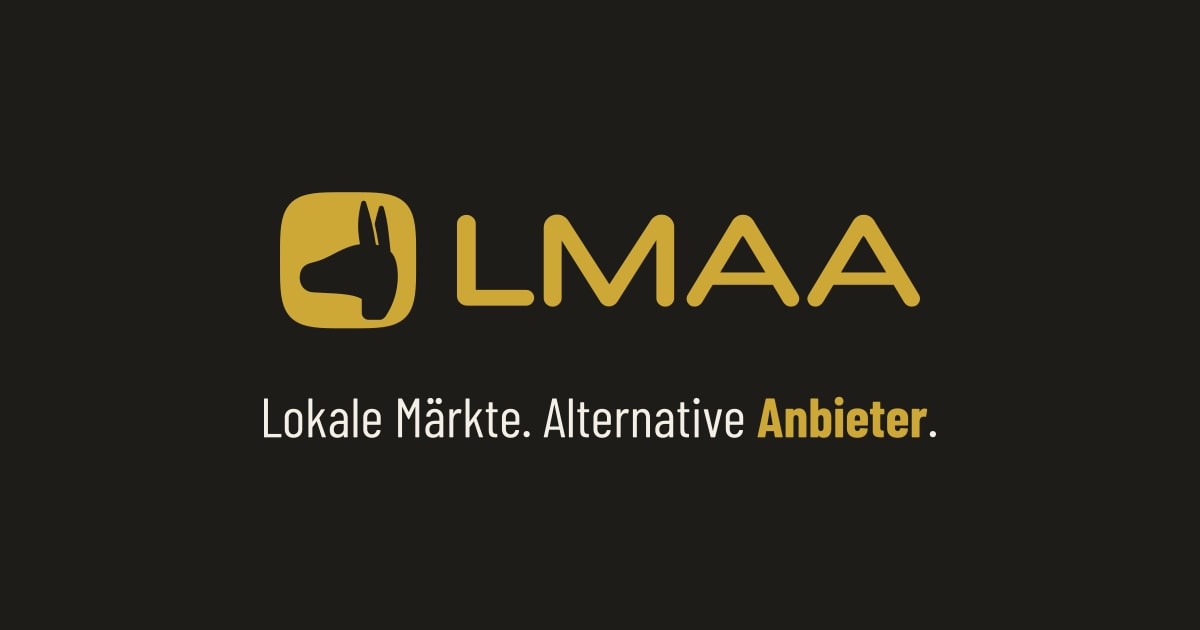
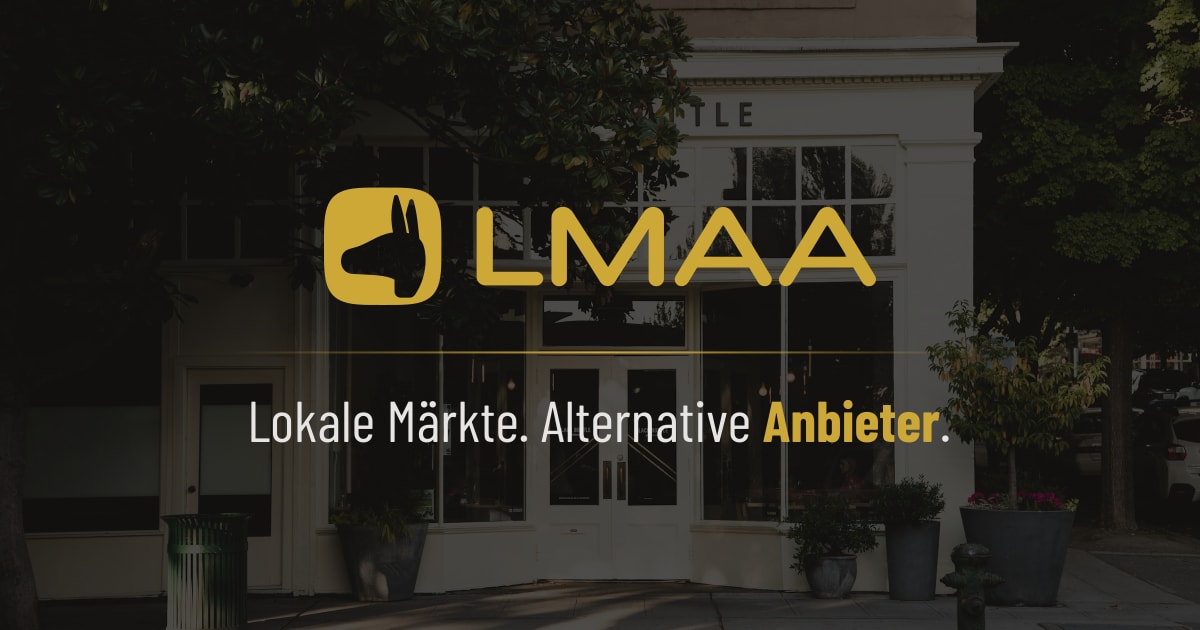
Feat: The social image, the email masthead, the README's hero and the profile images show the shop window
- Every banner lays Taylor Vick's shop-front photograph, cropped from its middle, under the veil the home page lays over its photographs, with the wordmark in gold, a gold line fading out at both ends and the claim in the hero's light grey, in the proportions of the approved proposal
- The Mastodon header and the new Bluesky banner set the three in one row, because Mastodon's web view shows a header only as a strip cut from its middle
- New: a GitHub social preview, and avatars for Mastodon and Bluesky with the icon in gold and the head in ink
- The banners in brand/ are JPEGs, under the 1 MB GitHub and Bluesky take; the README's hero is a palette PNG to keep its cut corners and stay small
- brand/shop-window.jpg holds the photograph, and brand/README.md credits it and says where each file is uploaded

Closes #453

diff --git a/brand/README.md b/brand/README.md
@@ -2,18 +2,26 @@
 
 The images here show the LMAA marks where the website does not serve them. They are uploaded by hand.
 
-| File                     | Size       | Where it goes                                               |
-| ------------------------ | ---------- | ----------------------------------------------------------- |
-| `mastodon-header.png`    | 1500 × 500 | The header of the Mastodon account. X takes the same size.  |
-| `lmaa-icon.png`          | 512 × 512  | The media library of the dashboard's social preview editor. |
-| `lmaa-wordmark.png`      | 1200 wide  | The media library of the dashboard's social preview editor. |
-| `lmaa-claim.png`         | 1200 wide  | The media library of the dashboard's social preview editor. |
-| `lmaa-icon-ink.png`      | 512 × 512  | Wherever the logo stands on a light ground.                 |
-| `lmaa-wordmark-ink.png`  | 1200 wide  | Wherever the wordmark stands on a light ground.             |
-| `lmaa-icon-gold.png`     | 512 × 512  | Wherever the logo shows in gold, as the favicon does.       |
-| `lmaa-wordmark-gold.png` | 1200 wide  | Wherever the wordmark shows in gold.                        |
+| File                     | Size        | Where it goes                                               |
+| ------------------------ | ----------- | ----------------------------------------------------------- |
+| `mastodon-header.jpg`    | 1500 × 500  | The header of the Mastodon account. X takes the same size.  |
+| `mastodon-avatar.png`    | 400 × 400   | The avatar of the Mastodon account.                         |
+| `bluesky-banner.jpg`     | 2000 × 667  | The banner of the Bluesky account.                          |
+| `bluesky-avatar.png`     | 1000 × 1000 | The avatar of the Bluesky account.                          |
+| `github-preview.jpg`     | 1280 × 640  | The social preview in the GitHub repository's settings.     |
+| `lmaa-icon.png`          | 512 × 512   | The media library of the dashboard's social preview editor. |
+| `lmaa-wordmark.png`      | 1200 wide   | The media library of the dashboard's social preview editor. |
+| `lmaa-claim.png`         | 1200 wide   | The media library of the dashboard's social preview editor. |
+| `lmaa-icon-ink.png`      | 512 × 512   | Wherever the logo stands on a light ground.                 |
+| `lmaa-wordmark-ink.png`  | 1200 wide   | Wherever the wordmark stands on a light ground.             |
+| `lmaa-icon-gold.png`     | 512 × 512   | Wherever the logo shows in gold, as the favicon does.       |
+| `lmaa-wordmark-gold.png` | 1200 wide   | Wherever the wordmark shows in gold.                        |
 
-The header shows the wordmark over the claim on the dark ground, like the default social image. The three PNGs for the editor have a transparent ground: the icon and the wordmark in gold with the llama's head cut out, the claim in paper with its last word in gold. The editor takes no SVG, which is why they exist as PNGs.
+The banners stand in the shop window, like the default social image, the email masthead and the README's hero: the photograph `shop-window.jpg` under the veil the home page lays over its photographs, the wordmark in gold, a gold line fading out at both ends, and the claim in light grey with its last word in gold. The Mastodon header and the Bluesky banner set the three in one row, because Mastodon's web view shows a header only as a strip cut from its middle.
+
+The avatars show the icon in gold with the llama's head in ink, as the favicon does. The Bluesky one is smaller inside its square, because Bluesky shows avatars round.
+
+The three PNGs for the editor have a transparent ground: the icon and the wordmark in gold with the llama's head cut out, the claim in paper with its last word in gold. The editor takes no SVG, which is why they exist as PNGs.
 
 The ink and the gold PNGs have a transparent ground as well. In the ink ones the squircle and the letters are ink black (`#0f0f0f`) and the llama's head is gold (`#cea836`). The gold ones swap the two colors.
 
@@ -24,3 +32,7 @@ node scripts/render-brand-images.mjs
 ```
 
 Change the drawings, never these files.
+
+## shop-window.jpg
+
+[Closed door](https://unsplash.com/photos/closed-door-D2ArvCaoEAM) by [Taylor Vick](https://unsplash.com/@tvick), from Unsplash, 2400 px wide. It is one of the photographs in the home page's rotation. The [Unsplash License](https://unsplash.com/license) allows using and changing it for free, without permission and without credit; the credit stands here anyway.
